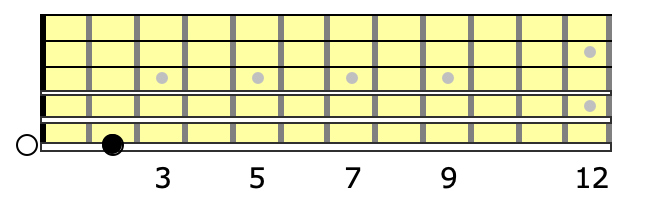
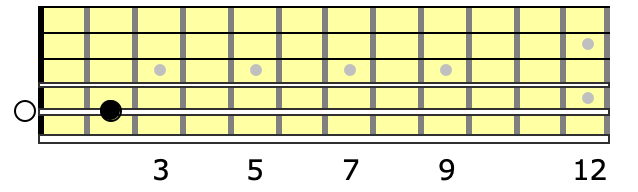
add interval charts

diff --git a/src/components/earTraining/intervals/Intervals.jsx b/src/components/earTraining/intervals/Intervals.jsx
@@ -1,7 +1,18 @@
 import React from "react";
 import styles from './Intervals.module.css';
 import audioClip from '../noteSounds/noteSounds';
-import m2 from './intervalDiagrams/m2.png';
+import min2 from './intervalDiagrams/min2.png';
+import maj2 from './intervalDiagrams/maj2.png';
+import min3 from './intervalDiagrams/min3.png';
+import maj3 from './intervalDiagrams/maj3.png';
+import p4 from './intervalDiagrams/p4.png';
+import tt from './intervalDiagrams/tt.png';
+import p5 from './intervalDiagrams/p5.png';
+import min6 from './intervalDiagrams/min6.png';
+import maj6 from './intervalDiagrams/maj6.png';
+import min7 from './intervalDiagrams/min7.png';
+import maj7 from './intervalDiagrams/maj7.png';
+import p8 from './intervalDiagrams/p8.png';
 
 import intervals from '../noteSounds/intervalSounds';
 
@@ -54,62 +65,73 @@ function Intervals() {
                         className={styles.video}
                         >
                     </iframe>
-                    <img className={styles.diagram} src={m2} alt="diagram" />
+                    <img className={styles.diagram} src={min2} alt="diagram" />
                 </li>
                 <li className={styles.li} style={{backgroundColor: 'blue'}}>
                     <p className={styles.p}>Major 2nd: Happy Birthday</p>
                     <button className={styles.btn} id="2" onClick={interval}>Interval Sound</button>
                     <button className={styles.btn} id="1" onClick={context}>Interval in Context</button>
+                    <img className={styles.diagram} src={maj2} alt="diagram" />
                 </li>
                 <li className={styles.li} style={{backgroundColor: 'purple'}}>
                     <p className={styles.p}>Minor 3rd: Greensleeves</p>
                     <button className={styles.btn} id="3" onClick={interval}>Interval Sound</button>
                     <button className={styles.btn} id="2" onClick={context}>Interval in Context</button>
+                    <img className={styles.diagram} src={min3} alt="diagram" />
                 </li>
                 <li className={styles.li} style={{backgroundColor: 'red'}}>
                     <p className={styles.p}>Major 3rd: Oh When The Saints</p>
                     <button className={styles.btn} id="4" onClick={interval}>Interval Sound</button>
                     <button className={styles.btn} id="3" onClick={context}>Interval in Context</button>
+                    <img className={styles.diagram} src={maj3} alt="diagram" />
                 </li>
                 <li className={styles.li} style={{backgroundColor: 'orange'}}>
                     <p className={styles.p}>Perfect 4th: Wedding March</p>
                     <button className={styles.btn} id="5" onClick={interval}>Interval Sound</button>
                     <button className={styles.btn} id="4" onClick={context}>Interval in Context</button>
+                    <img className={styles.diagram} src={p4} alt="diagram" />
                 </li>
                 <li className={styles.li} style={{backgroundColor: 'yellow'}}>
                     <p className={styles.p}>Tritone: The Simpsons</p>
                     <button className={styles.btn} id="6" onClick={interval}>Interval Sound</button>
                     <button className={styles.btn} id="5" onClick={context}>Interval in Context</button>
+                    <img className={styles.diagram} src={tt} alt="diagram" />
                 </li>
                 <li className={styles.li} style={{backgroundColor: 'lime'}}>
                     <p className={styles.p}>Perfect 5th: Star Wars</p>
                     <button className={styles.btn} id="7" onClick={interval}>Interval Sound</button>
                     <button className={styles.btn} id="6" onClick={context}>Interval in Context</button>
+                    <img className={styles.diagram} src={p5} alt="diagram" />
                 </li>
                 <li className={styles.li} style={{backgroundColor: 'aqua'}}>
                     <p className={styles.p}>Minor 6th: Go Down Moses</p>
                     <button className={styles.btn} id="8" onClick={interval}>Interval Sound</button>
                     <button className={styles.btn} id="7" onClick={context}>Interval in Context</button>
+                    <img className={styles.diagram} src={min6} alt="diagram" />
                 </li>
                 <li className={styles.li} style={{backgroundColor: 'violet'}}>
                     <p className={styles.p}>Major 6th: My Bonnie Lies Over The Ocean</p>
                     <button className={styles.btn} id="9" onClick={interval}>Interval Sound</button>
                     <button className={styles.btn} id="8" onClick={context}>Interval in Context</button>
+                    <img className={styles.diagram} src={maj6} alt="diagram" />
                 </li>
                 <li className={styles.li} style={{backgroundColor: 'maroon'}}>
                     <p className={styles.p}>Minor 7th: Somewhere</p>
                     <button className={styles.btn} id="10" onClick={interval}>Interval Sound</button>
                     <button className={styles.btn} id="9" onClick={context}>Interval in Context</button>
+                    <img className={styles.diagram} src={min7} alt="diagram" />
                 </li>
                 <li className={styles.li} style={{backgroundColor: 'coral'}}>
                     <p className={styles.p}>Major 7th: Take On Me</p>
                     <button className={styles.btn} id="11" onClick={interval}>Interval Sound</button>
                     <button className={styles.btn} id="10" onClick={context}>Interval in Context</button>
+                    <img className={styles.diagram} src={maj7} alt="diagram" />
                 </li>
                 <li className={styles.li} style={{backgroundColor: 'yellow'}}>
                     <p className={styles.p}>Perfect Octave: Somewhere Over The Rainbow</p>
                     <button className={styles.btn} id="12" onClick={interval}>Interval Sound</button>
                     <button className={styles.btn} id="11" onClick={context}>Interval in Context</button>
+                    <img className={styles.diagram} src={p8} alt="diagram" />
                 </li>
             </ul>
             <h4>Descending:</h4>

diff --git a/src/components/earTraining/intervals/Intervals.module.css b/src/components/earTraining/intervals/Intervals.module.css
@@ -14,6 +14,7 @@
     margin-top: 20px;
     /* border: 2px solid red; */
     padding: 30px;
+    
 }
 
 .diagram {
@@ -37,4 +38,5 @@
 .p {
     font-size: 2rem;
     /* border: 2px solid aqua; */
+    color: #333;
 }
